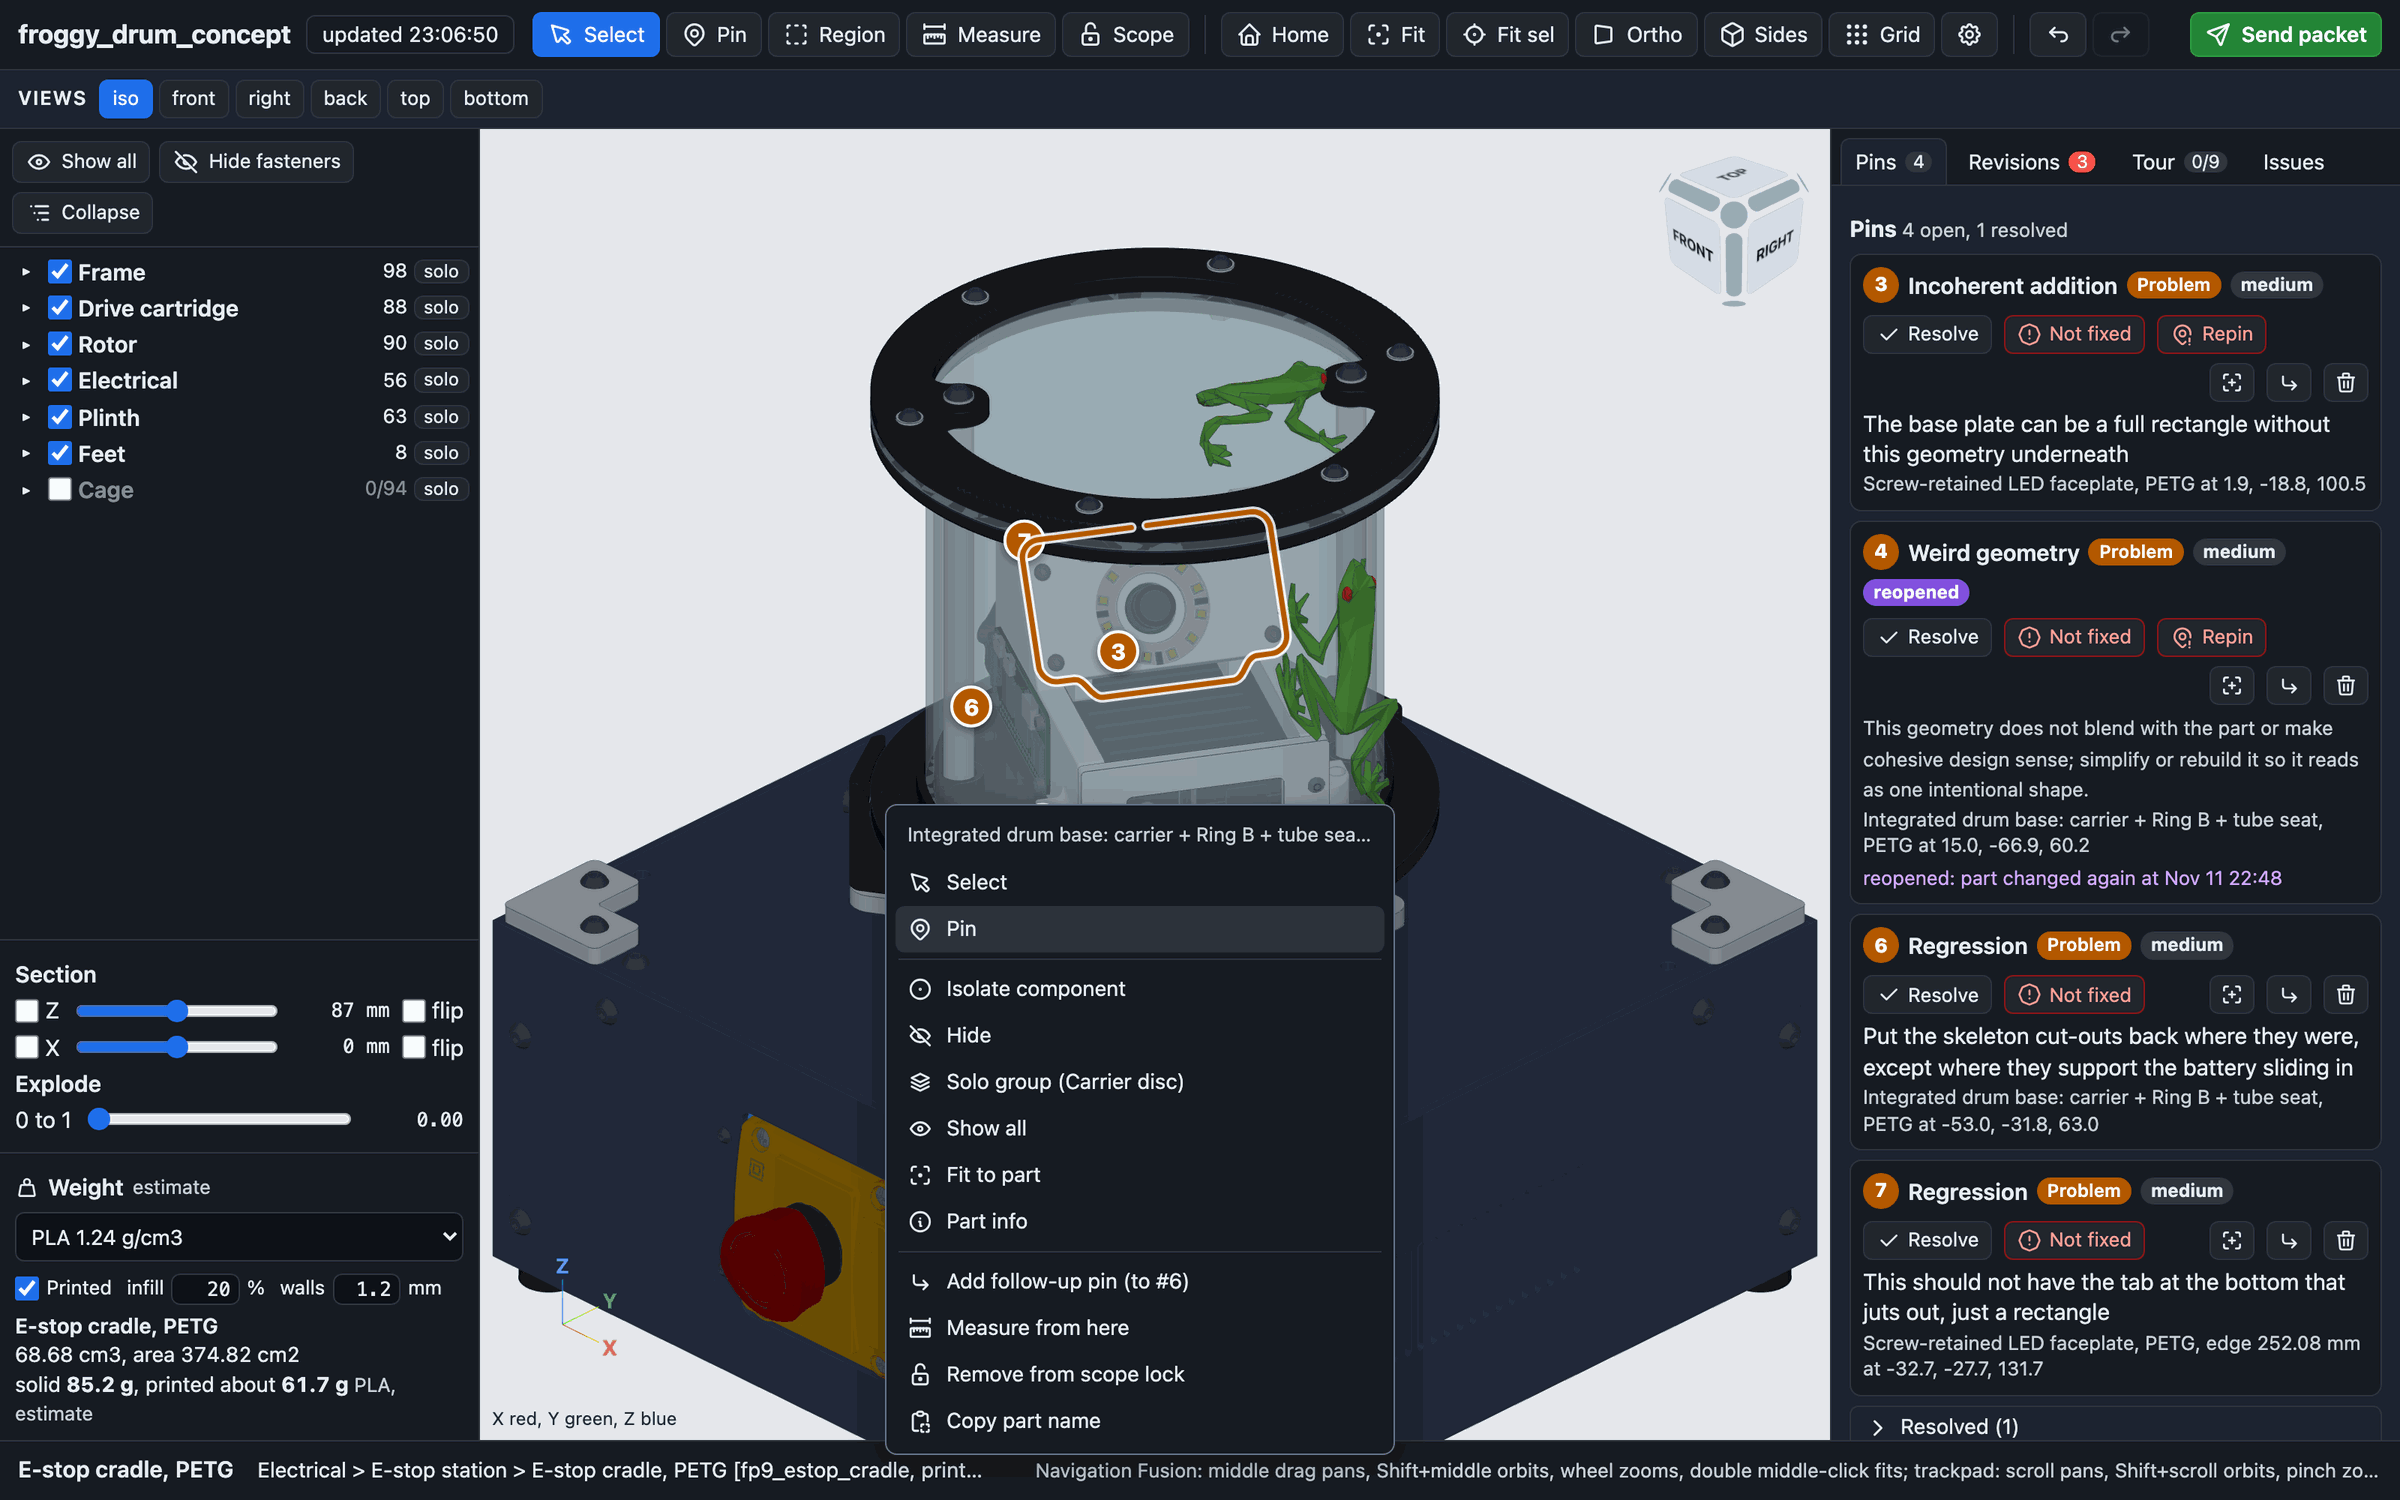
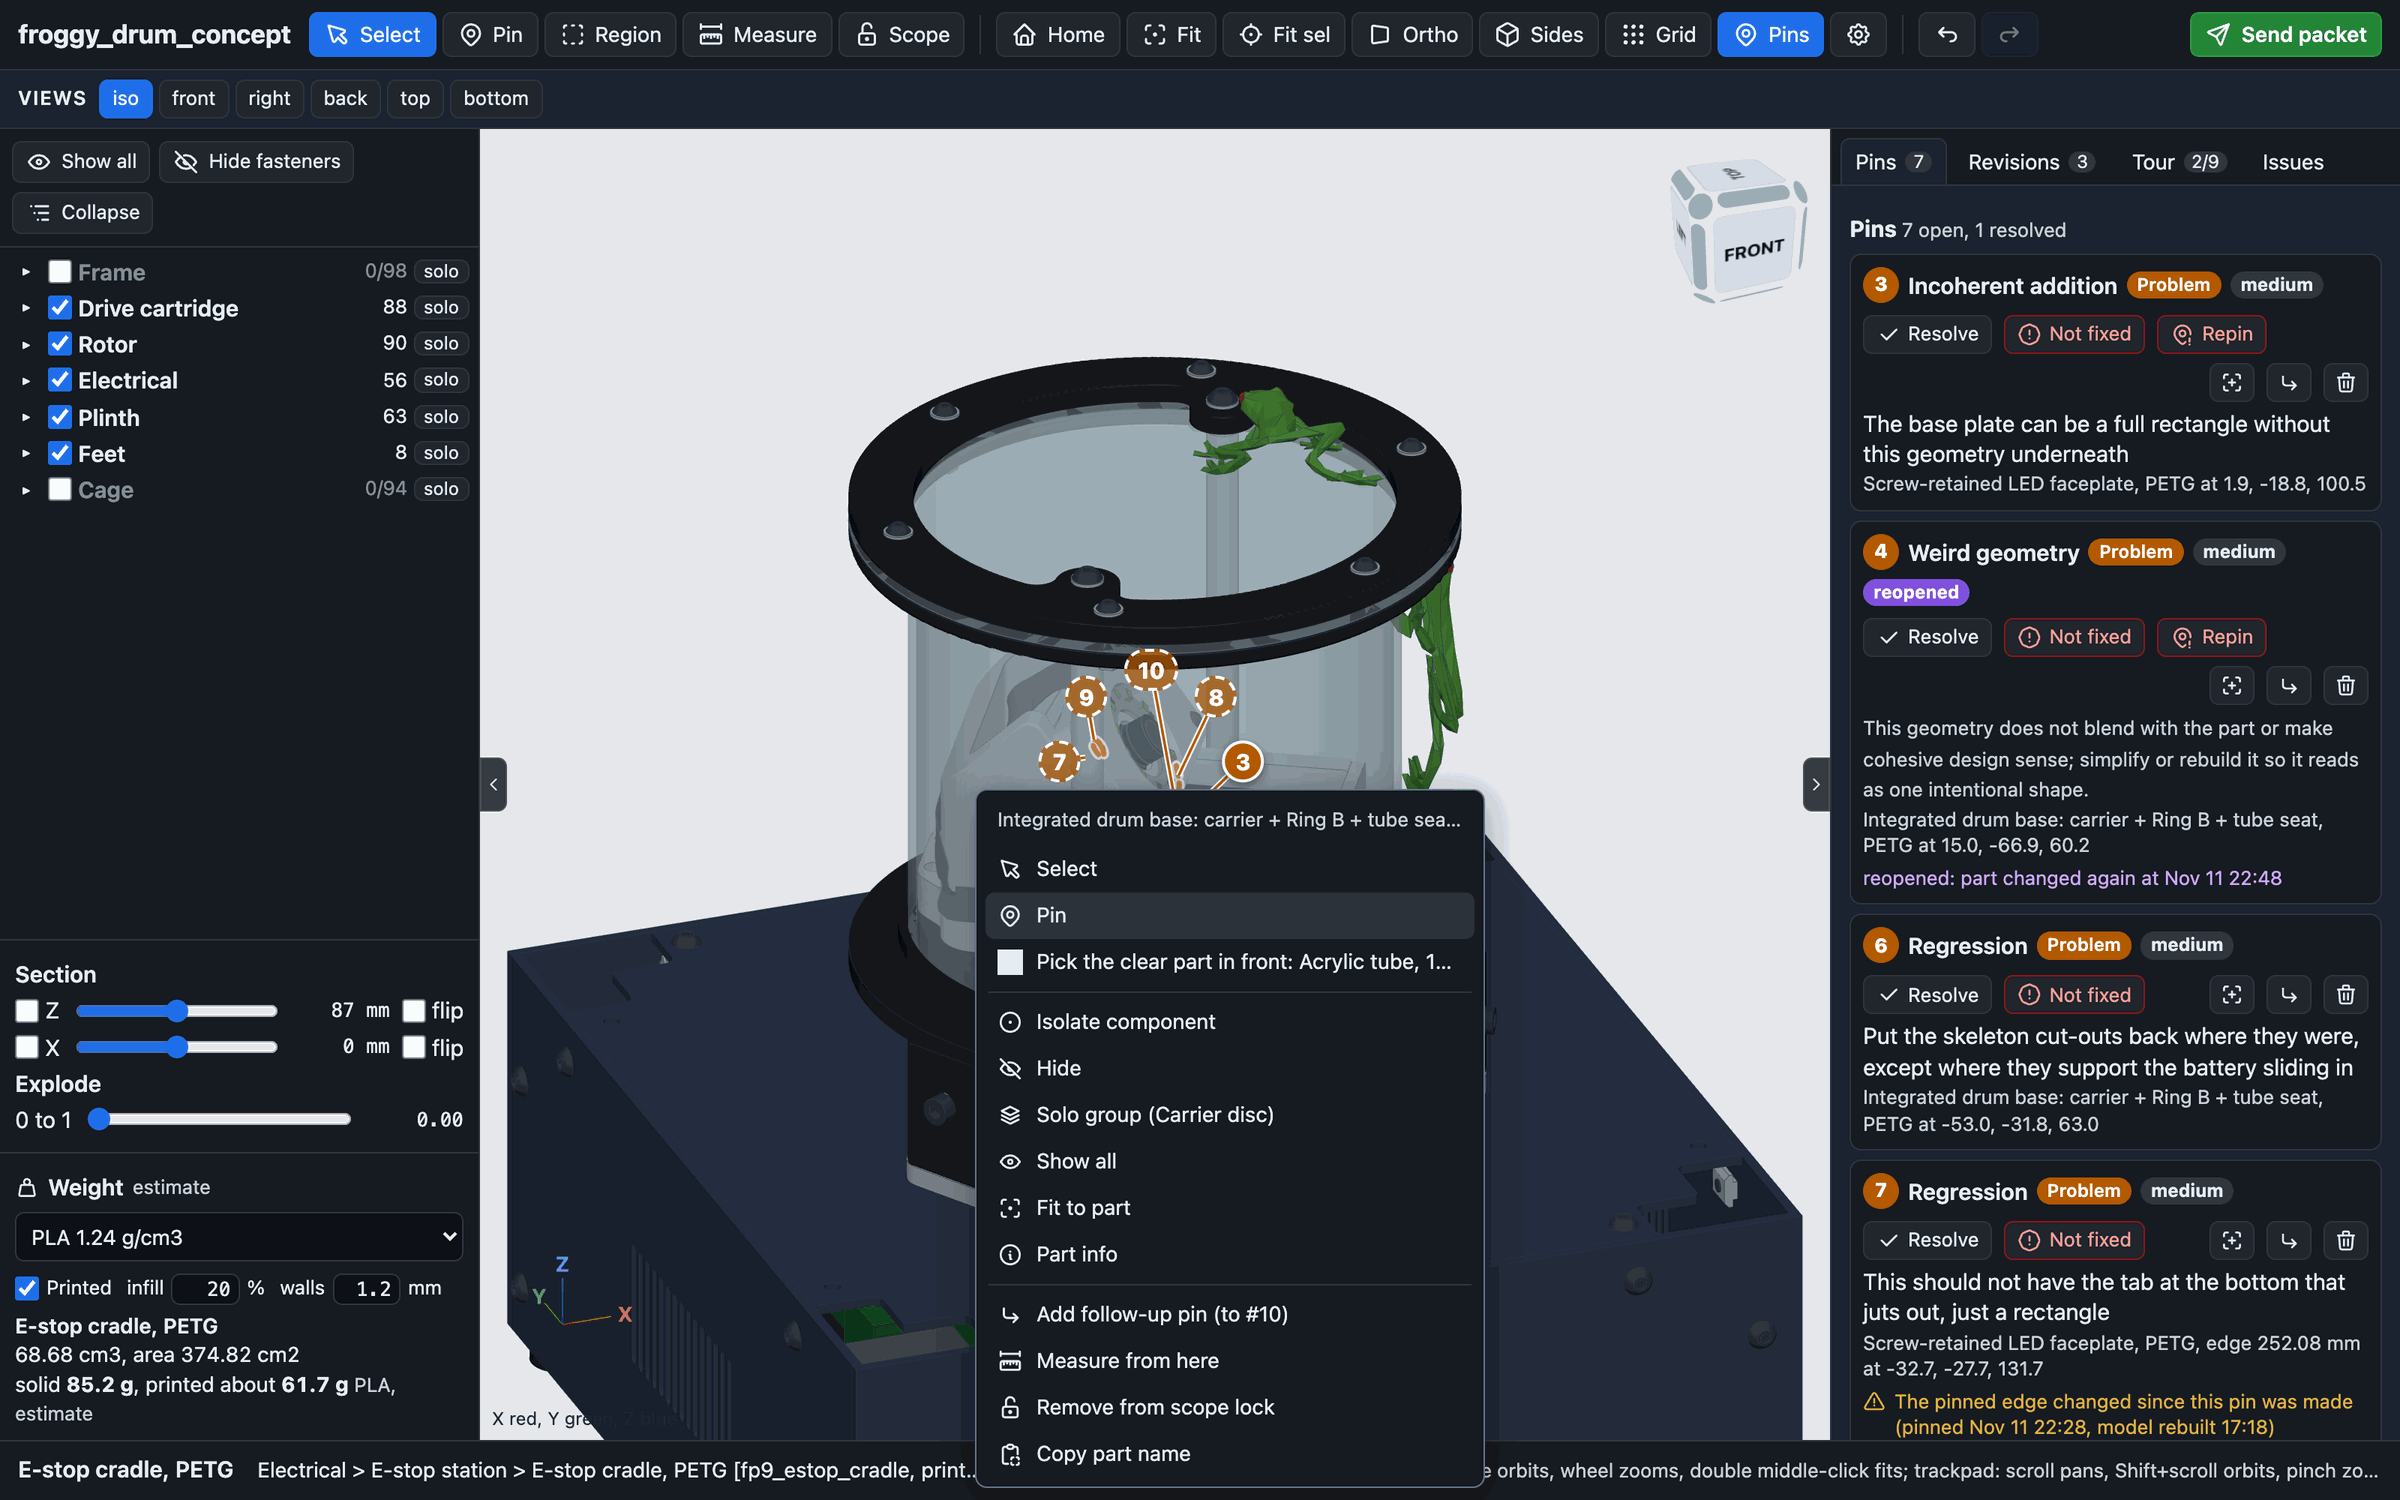
README: screenshots and clip recaptured from the current viewer

diff --git a/README.md b/README.md
@@ -53,16 +53,16 @@ vendored. It reads any GLB (and STL or PLY), runs on 127.0.0.1 and makes no netw
 
 <table>
 <tr>
-<td align="center"><img src="docs/media/edge-pin.png" width="440" alt="Placing an edge pin on a clamp ring: the whole edge is highlighted and the pin card floats beside it with the class groups"><br><sub>Pinning a feature edge. The card floats beside the pin and one click on a class saves it.</sub></td>
-<td align="center"><img src="docs/media/pin-card.png" width="440" alt="The pin card on the bracket demo with a note typed and the class chips in four groups"><br><sub>The pin card: change requests, problems, notes to the agent. The note is optional.</sub></td>
+<td align="center"><img src="docs/media/edge-pin.png" width="440" alt="Placing an edge pin on a clamp ring: the whole edge is highlighted and the compact pin card floats beside it with the recently used reasons"><br><sub>Pinning a feature edge. The card floats beside the pin and one click on a reason saves it.</sub></td>
+<td align="center"><img src="docs/media/pin-card.png" width="440" alt="The pin card on the bracket demo with a note typed, More reasons open with the class chips in four groups, and the severity chips"><br><sub>The pin card: the six reasons you used last, More reasons for change requests, problems and notes to the agent, a severity. The note is optional.</sub></td>
 </tr>
 <tr>
-<td align="center"><img src="docs/media/scope-diff.png" width="440" alt="Revisions tab on a dark background comparing the current build with what was reviewed, the old geometry of the changed parts drawn as a green hologram over the current model"><br><sub>Since your last packet: two parts changed outside the scope lock, their old shape as a green hologram.</sub></td>
+<td align="center"><img src="docs/media/scope-diff.png" width="440" alt="Revisions tab comparing the current build with what was reviewed, the old geometry of the changed parts drawn as a green hologram over the current model"><br><sub>Since your last packet: the two parts that changed outside the scope lock carry your pins, so they are listed as pinned by you. Their old shape shows as a green hologram.</sub></td>
 <td align="center"><img src="docs/media/tour.png" width="440" alt="Tour tab with the agent's stops and Accept, Reject and Repin buttons"><br><sub>The agent's change tour. Each stop flies to its parts; accept, reject or repin.</sub></td>
 </tr>
 <tr>
-<td align="center"><img src="docs/media/collateral.png" width="440" alt="Bracket demo with the base plate flagged as collateral and the bracket's thin wall warning"><br><sub>The bracket demo: the base plate changed outside the scope lock, and the bracket kept a 0.25 mm wall.</sub></td>
-<td align="center"><img src="docs/media/part-menu.png" width="440" alt="Right-click menu on a part with Select, Pin, Isolate, Hide, Part info, Measure and scope lock actions"><br><sub>Right-click a part to pin it, isolate it, measure from it or change the scope lock.</sub></td>
+<td align="center"><img src="docs/media/collateral.png" width="440" alt="Bracket demo with the base plate, which carries no pin, flagged as collateral and the bracket's thin wall warning"><br><sub>The bracket demo: the base plate changed outside the scope lock, and the bracket kept a 0.25 mm wall.</sub></td>
+<td align="center"><img src="docs/media/part-menu.png" width="440" alt="Right-click menu on a part seen through the clear drum, with Select, Pin, Pick the clear part in front, Isolate, Hide, Solo group, Fit to part, Part info, follow-up pin, Measure and scope lock actions"><br><sub>Right-click a part to pin it, isolate it, measure from it or change the scope lock.</sub></td>
 </tr>
 <tr>
 <td align="center"><img src="docs/media/weight.png" width="440" alt="A selected part with the weight estimate in the left panel showing solid and printed mass in PETG"><br><sub>Weight estimate for the selected part: solid and printed with infill and walls.</sub></td>
